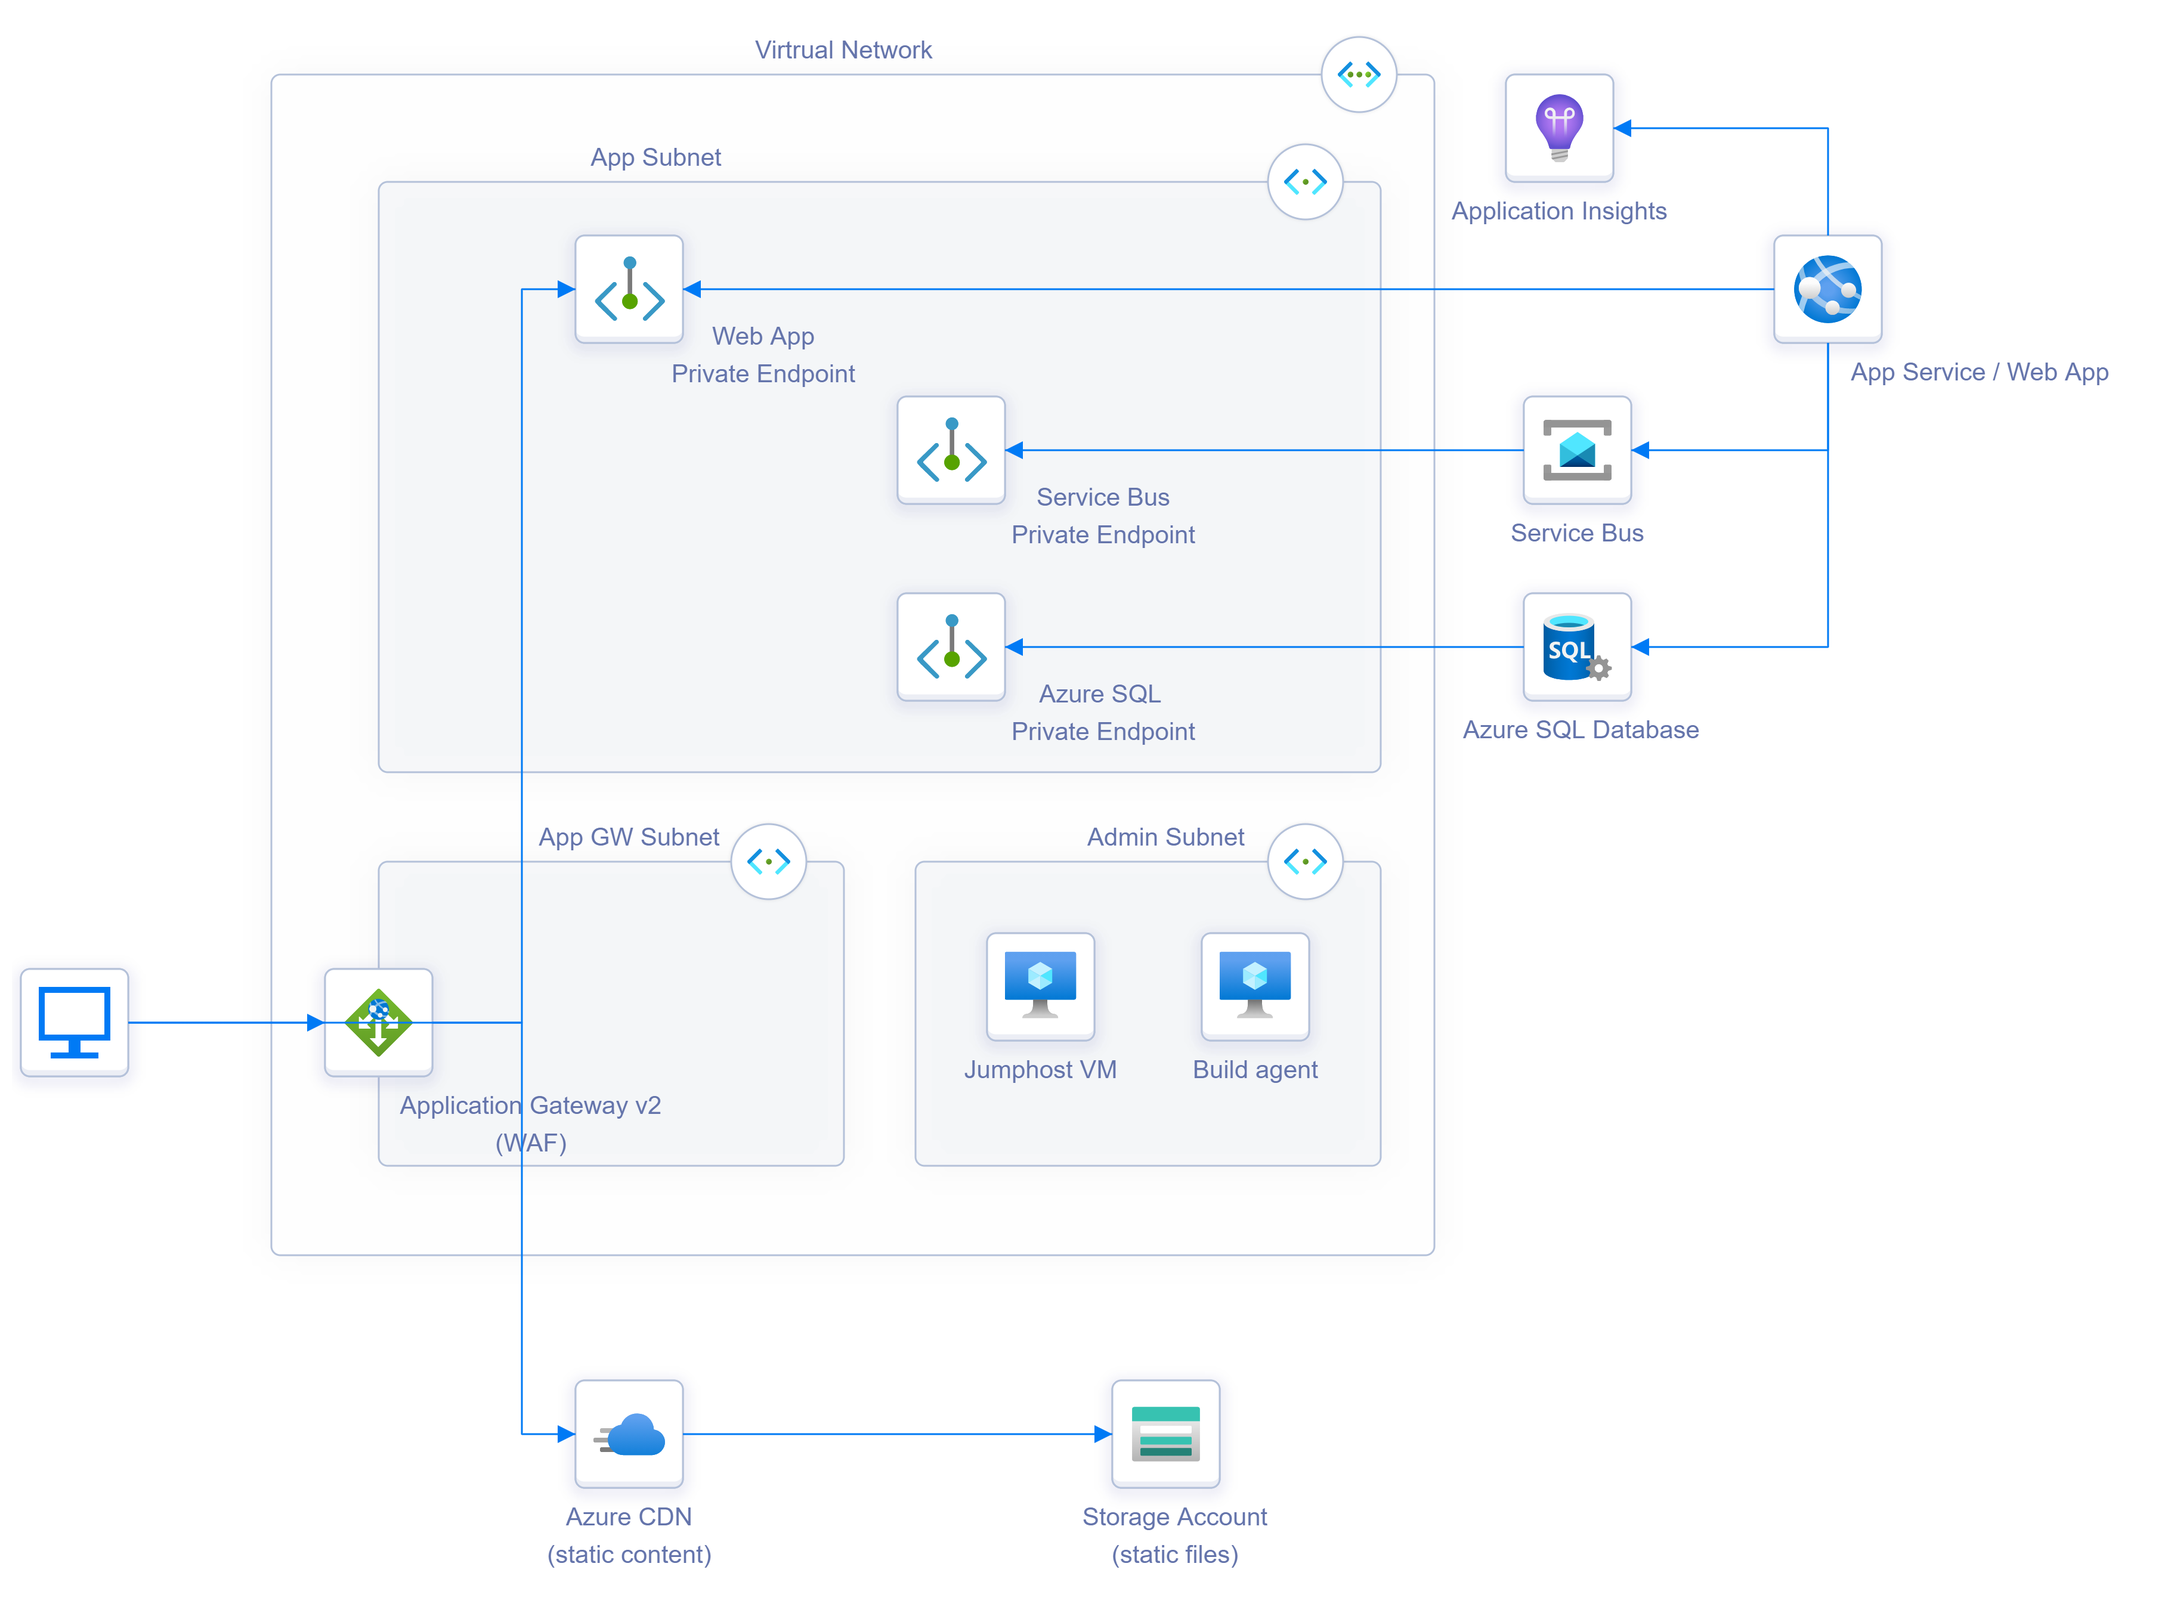
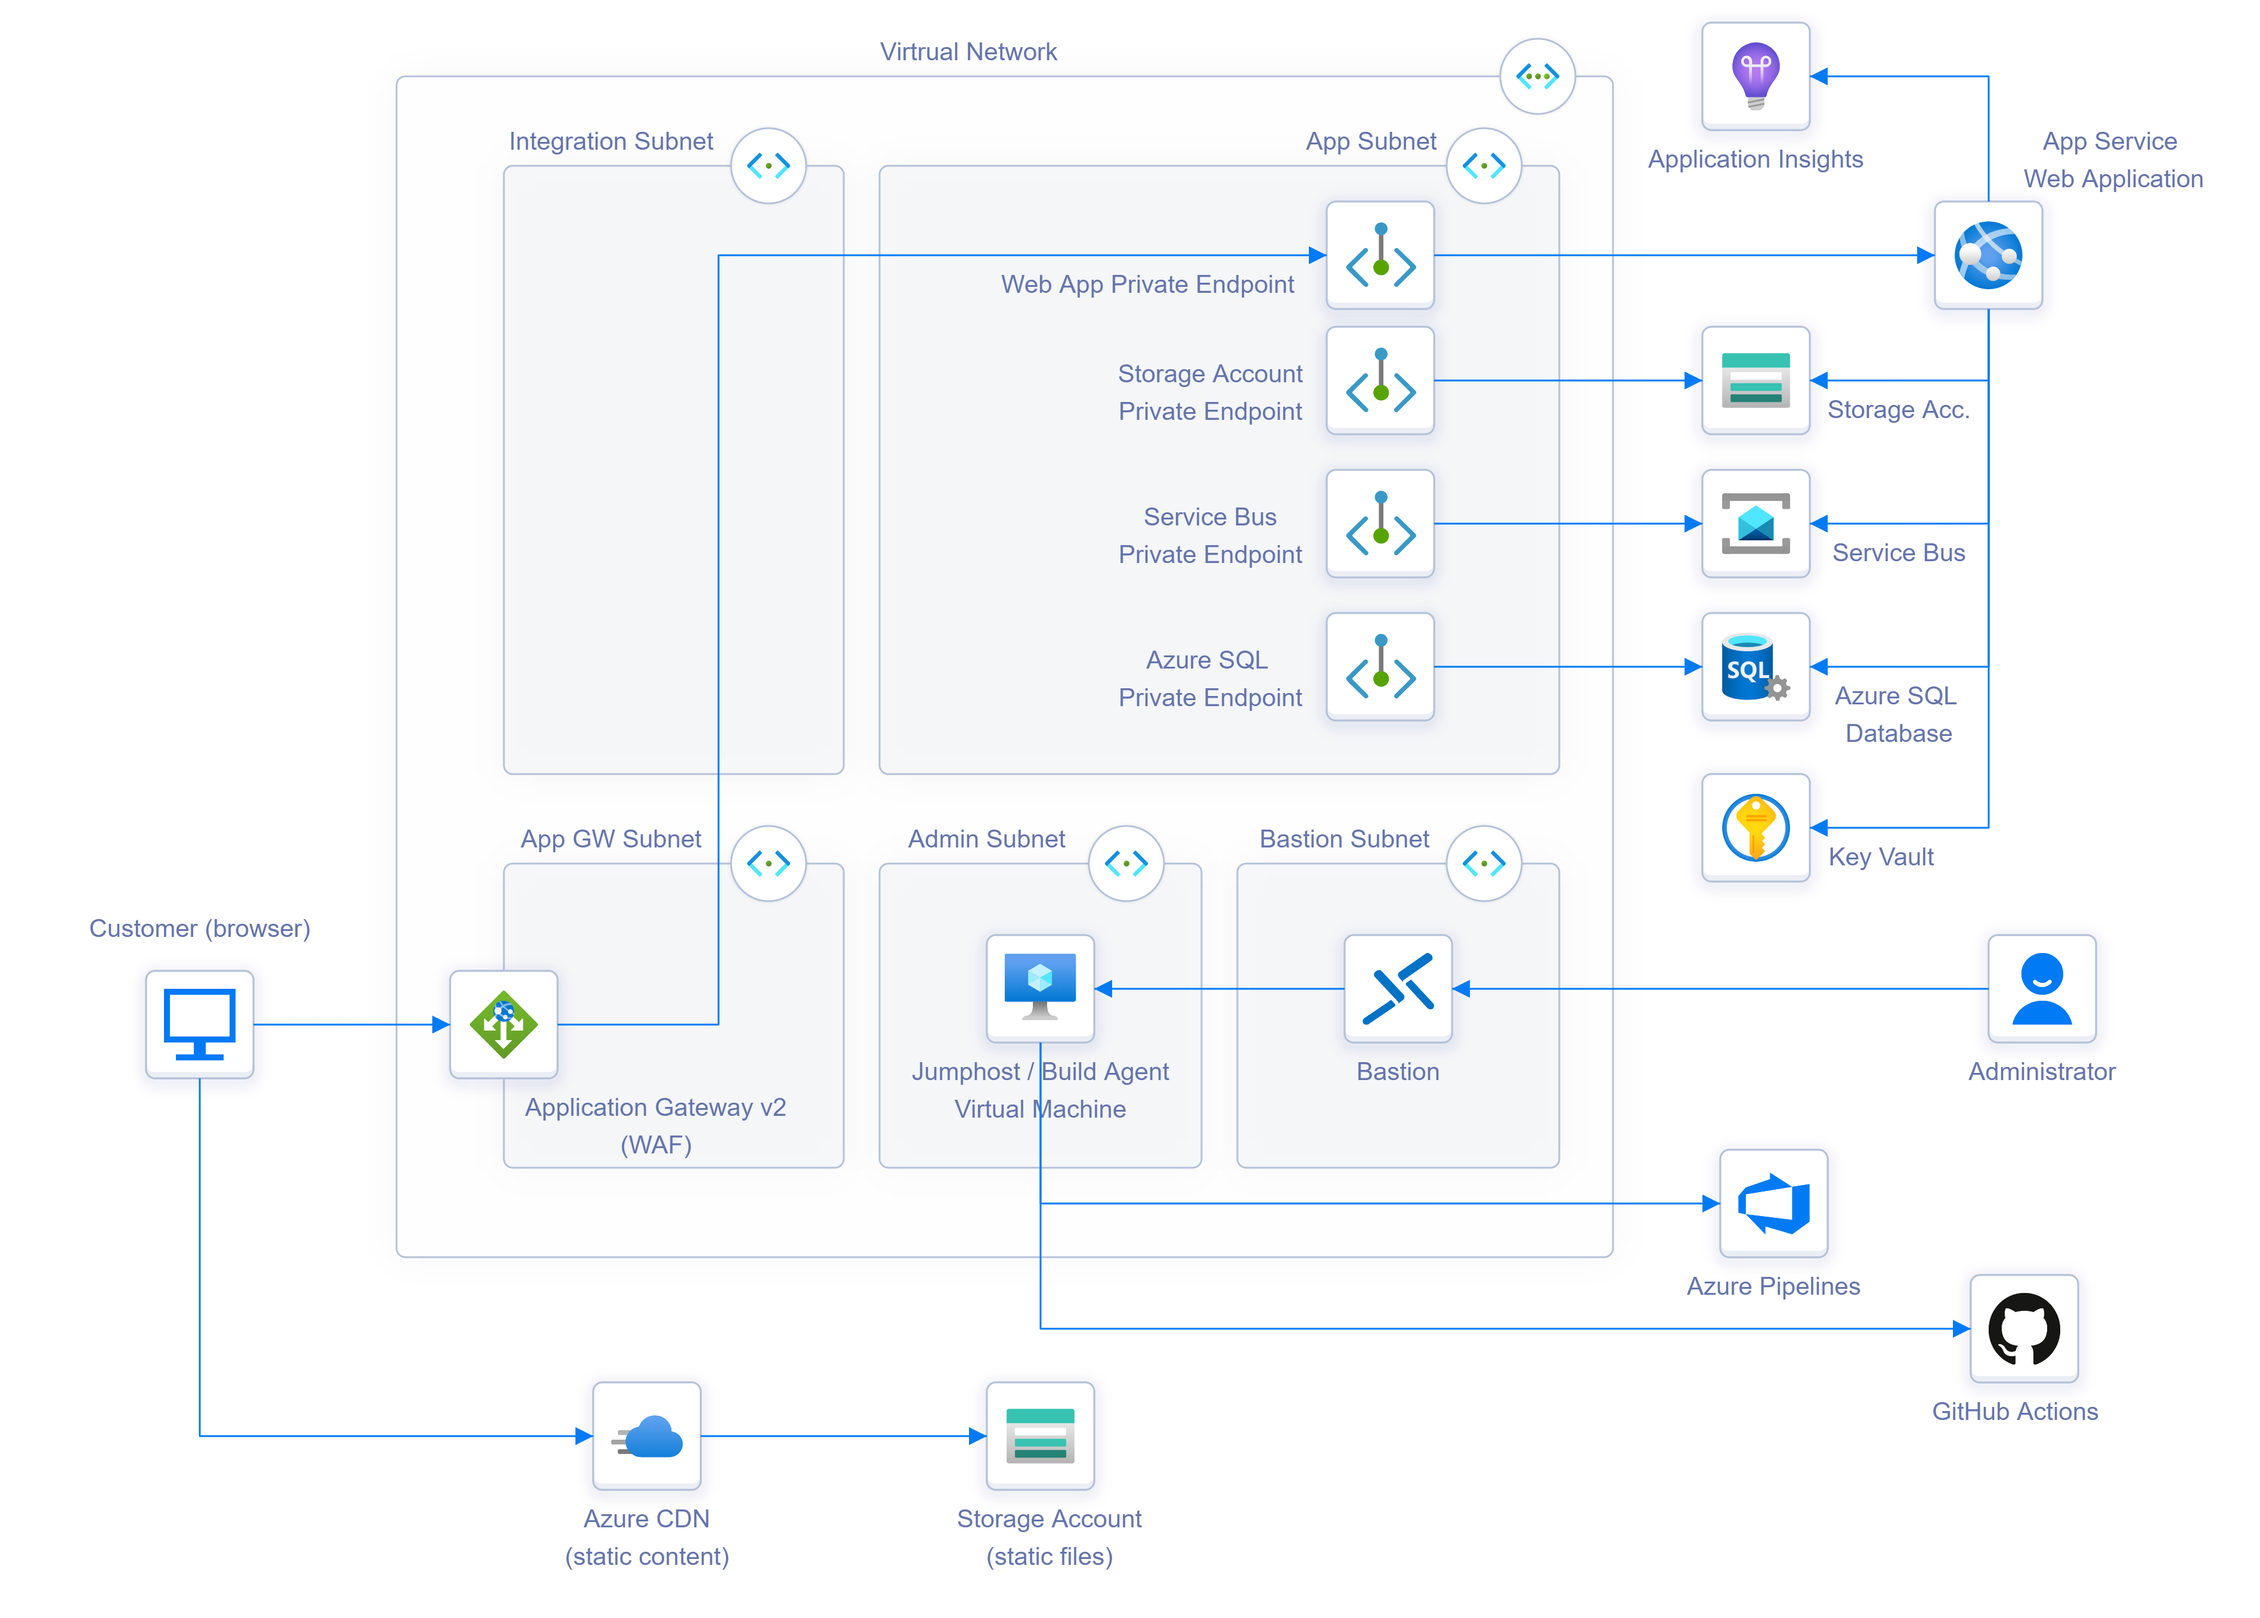
Updated README.md

diff --git a/README.md b/README.md
@@ -1,26 +1,24 @@
-# azure-secure-website-tf
-An typical secure website deployment on Azure via Terraform
-
-
-## Disclaimer: WORK IN PROGRESS!!
-
-# Secured Web Application on Azure
-
-[![Deploy To Azure](https://aka.ms/deploytoazurebutton)](https://portal.azure.com/#create/Microsoft.Template/uri/https%3A%2F%2Fraw.githubusercontent.com%2Fnianton%2Fazure-secure-website%2Fmain%2Fdeploy%2Fazure.deploy.json)
+# Secure Web Application on Azure
 
 > NOTE: This work in progress -not finalized yet.
 
-This is a templated deployment of a secure web application on Azure Functions, having all the related PaaS components deployed in a virtual network leveraging Private Endpoints.
+This is a templated Terraform deployment of a secure web application, having all the related PaaS components deployed in a virtual network leveraging Private Endpoints.
 
 The architecture of the solution is as depicted on the following diagram:
 
 ![Artitectural Diagram](./assets/azure-diagram.png?raw=true)
 
 ## The role of each component
-* **Azure App Service** -responsible to manage the file tranfer with two approaches:
-* **Azure Key Vault** responsible to securely store the secrets/credentials for AWS S3 and Az Data Storage Account
+* **Azure App Service** for hosting the web application, set up for a .NET application in this template
+* **Azure Application Gateway (WAF)** to securely expose the web application to the internet, protecting it with a Web Application Firewall
+* **Azure Key Vault** responsible to securely store the secrets/credentials for Service Bus/SQL Db/Storage Account
 * **Application Insights** to provide monitoring and visibility for the health and performance of the application
 * **Service Bus** a managed messaging broker service, accessible through the VNET via Private Endpoint
-* **Azure Database for MySQL** the managed MySQL database to be used by the applications
-* **Data Storage Account** the Storage Account that will contain the application data / blob files
+* **Azure SQL Database** the managed SQL Server database to be used by the application, accessible only through the private endpoint
+* **Storage Account** the Storage Account that will contain the application data / blob files, Blob endpoint will be accessible through the private endpoint
 * **Jumphost VM** the virtual machine to have access to the resources in the virtual network
+* **Bastion Host** to allow RDP access to the Jumphost virtual machine over the Azure Portal
+
+As an example, below are the resources created when running the deployment with project: 'secweb' and environment: 'test'
+
+![Azure Resources](./assets/azure-resources.png?raw=true)
